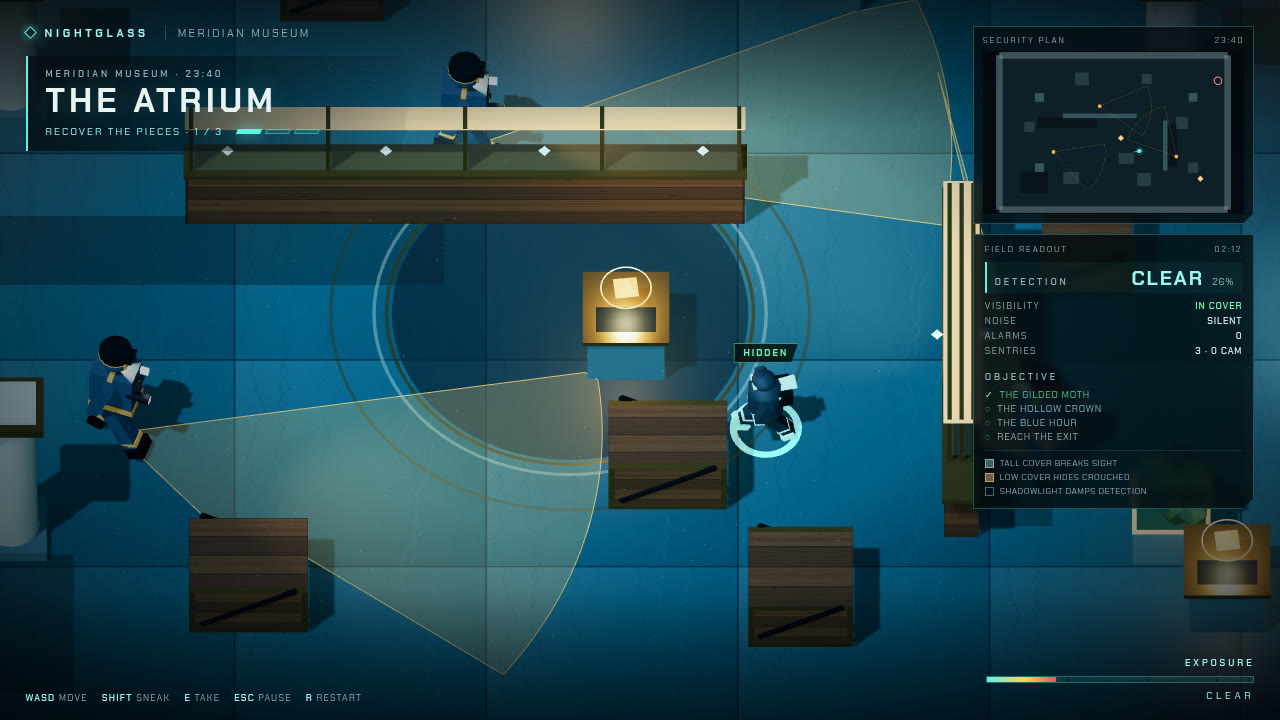
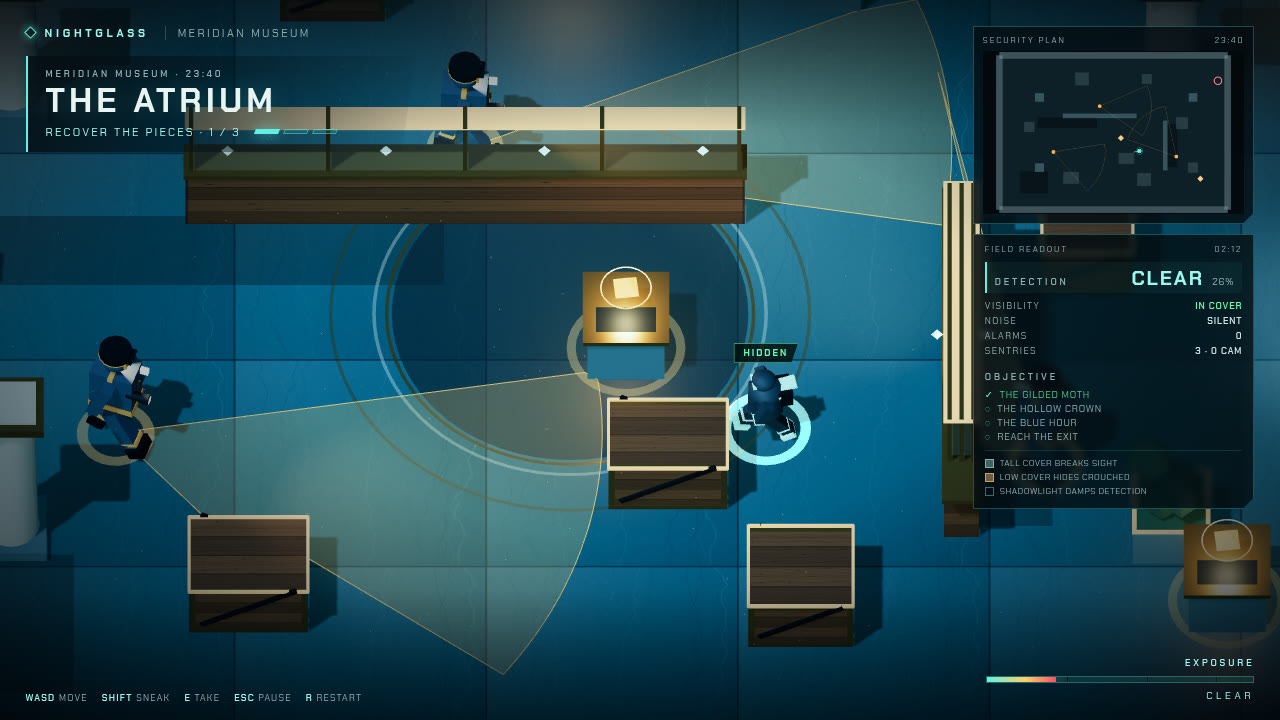
Ground rings, cover rims and safer lamp pools for readability

diff --git a/game/src/models.js b/game/src/models.js
@@ -81,6 +81,11 @@ function crate(def, materials) {
     slat.rotation.z = 0.55 * side;
     group.add(slat);
   }
+  const rim = 0.045;
+  group.add(box(def.w + 0.02, rim, rim, materials.edgeWarm, 0, def.h + 0.02, def.d / 2));
+  group.add(box(def.w + 0.02, rim, rim, materials.edgeWarm, 0, def.h + 0.02, -def.d / 2));
+  group.add(box(rim, rim, def.d + 0.02, materials.edgeWarm, def.w / 2, def.h + 0.02, 0));
+  group.add(box(rim, rim, def.d + 0.02, materials.edgeWarm, -def.w / 2, def.h + 0.02, 0));
   return group;
 }
 
@@ -167,6 +172,7 @@ function caseModel(def, materials) {
   const plinthHeight = def.h * 0.58;
   group.add(box(def.w, plinthHeight, def.d, materials.marble, 0, plinthHeight / 2, 0));
   group.add(box(def.w + 0.05, 0.06, def.d + 0.05, materials.brass, 0, plinthHeight, 0));
+  group.add(box(def.w + 0.08, 0.025, def.d + 0.08, materials.edgeWarm, 0, plinthHeight + 0.045, 0));
   const glass = box(def.w * 0.82, def.h - plinthHeight, def.d * 0.82, materials.glass, 0, plinthHeight + (def.h - plinthHeight) / 2, 0);
   glass.castShadow = false;
   group.add(glass);
@@ -196,10 +202,18 @@ export function makeRelic(def, materials) {
   group.add(box(1.24, 0.08, 1.24, materials.brass, 0, 0.99, 0));
   const inner = box(0.86, 0.02, 0.86, materials.darkMetal, 0, 1.02, 0);
   group.add(inner);
+  const plinthRing = new THREE.Mesh(
+    new THREE.RingGeometry(0.72, 0.85, 32),
+    new THREE.MeshBasicMaterial({ color: main ? '#5ff2e3' : '#ffb24d', transparent: true, opacity: 0.4, depthWrite: false, side: THREE.DoubleSide }),
+  );
+  plinthRing.rotation.x = -Math.PI / 2;
+  plinthRing.position.y = 0.018;
+  group.add(plinthRing);
   const gemMaterial = main ? materials.cyan.clone() : materials.amber.clone();
-  gemMaterial.emissiveIntensity = main ? 2.1 : 1.8;
-  const gem = new THREE.Mesh(new THREE.OctahedronGeometry(main ? 0.34 : 0.24, 0), gemMaterial);
-  gem.position.y = main ? 1.62 : 1.52;
+  gemMaterial.emissiveIntensity = main ? 1.6 : 1.8;
+  const gem = new THREE.Mesh(new THREE.OctahedronGeometry(main ? 0.36 : 0.24, 0), gemMaterial);
+  gem.scale.y = main ? 1.5 : 1.05;
+  gem.position.y = main ? 1.66 : 1.52;
   gem.castShadow = true;
   const halo = new THREE.Mesh(
     new THREE.TorusGeometry(main ? 0.48 : 0.36, 0.012, 8, 48),
@@ -207,7 +221,7 @@ export function makeRelic(def, materials) {
   );
   halo.position.y = gem.position.y;
   halo.rotation.x = Math.PI / 2;
-  const light = new THREE.PointLight(main ? '#8fffe0' : '#ffcf8a', main ? 12 : 4, main ? 8 : 4, 2);
+  const light = new THREE.PointLight(main ? '#8fffe0' : '#ffcf8a', main ? 9 : 4, main ? 8 : 4, 2);
   light.position.y = gem.position.y;
   const haloGroup = new THREE.Group();
   haloGroup.add(gem, halo, light);
@@ -221,7 +235,7 @@ export function makeRelic(def, materials) {
     group.add(shaft);
     const floorRing = new THREE.Mesh(new THREE.RingGeometry(0.78, 0.86, 40), materials.cyan.clone());
     floorRing.material.transparent = true;
-    floorRing.material.opacity = 0.2;
+    floorRing.material.opacity = 0.12;
     floorRing.material.depthWrite = false;
     floorRing.rotation.x = -Math.PI / 2;
     floorRing.position.y = 1.03;
@@ -375,7 +389,14 @@ export function makeGuardModel(materials) {
   group.add(flashlight);
   const badge = box(0.06, 0.14, 0.02, materials.brass, 0.3, 1.26, -0.02);
   group.add(badge);
-  return { group, legLeft, legRight, armLeft, armRight, flashlight, head };
+  const ring = new THREE.Mesh(
+    new THREE.RingGeometry(0.36, 0.5, 28),
+    new THREE.MeshBasicMaterial({ color: '#ffb24d', transparent: true, opacity: 0.5, depthWrite: false, side: THREE.DoubleSide }),
+  );
+  ring.rotation.x = -Math.PI / 2;
+  ring.position.y = 0.02;
+  group.add(ring);
+  return { group, legLeft, legRight, armLeft, armRight, flashlight, head, ring };
 }
 
 export function makePlayerModel(materials) {
@@ -418,8 +439,8 @@ export function makePlayerModel(materials) {
     group.add(arm);
   }
   const marker = new THREE.Mesh(
-    new THREE.RingGeometry(0.38, 0.48, 32),
-    new THREE.MeshBasicMaterial({ color: '#5ff2e3', transparent: true, opacity: 0.5, blending: THREE.AdditiveBlending, depthWrite: false, side: THREE.DoubleSide }),
+    new THREE.RingGeometry(0.46, 0.6, 32),
+    new THREE.MeshBasicMaterial({ color: '#5ff2e3', transparent: true, opacity: 0.6, blending: THREE.AdditiveBlending, depthWrite: false, side: THREE.DoubleSide }),
   );
   marker.rotation.x = -Math.PI / 2;
   marker.position.y = 0.025;
@@ -449,5 +470,12 @@ export function makeCameraModel(materials) {
   const led = new THREE.Mesh(new THREE.SphereGeometry(0.035, 8, 6), new THREE.MeshBasicMaterial({ color: '#ff4d5e' }));
   led.position.set(0.18, 0.38, 0);
   group.add(led);
+  const baseRing = new THREE.Mesh(
+    new THREE.RingGeometry(0.32, 0.44, 24),
+    new THREE.MeshBasicMaterial({ color: '#ff4d5e', transparent: true, opacity: 0.42, depthWrite: false, side: THREE.DoubleSide }),
+  );
+  baseRing.rotation.x = -Math.PI / 2;
+  baseRing.position.y = -2.28;
+  group.add(baseRing);
   return { group, housing, eye };
 }

diff --git a/game/src/guard.js b/game/src/guard.js
@@ -58,7 +58,7 @@ function writeCone(cone, points, blockers, reach) {
 function makeQuerySprite() {
   const material = new THREE.SpriteMaterial({ map: queryTexture, transparent: true, depthWrite: false });
   const sprite = new THREE.Sprite(material);
-  sprite.scale.set(0.55, 0.55, 0.55);
+  sprite.scale.set(0.72, 0.72, 0.72);
   sprite.visible = false;
   return sprite;
 }
@@ -66,7 +66,7 @@ function makeQuerySprite() {
 function makeAlarmSprite() {
   const material = new THREE.SpriteMaterial({ map: alarmTexture, transparent: true, depthWrite: false });
   const sprite = new THREE.Sprite(material);
-  sprite.scale.set(0.6, 0.6, 0.6);
+  sprite.scale.set(0.8, 0.8, 0.8);
   sprite.visible = false;
   return sprite;
 }
@@ -103,10 +103,10 @@ export class Guard {
     this.cone = makeCone(this.range, '#ffb24d', 0.14);
     scene.add(this.cone.mesh, this.cone.edge);
     this.query = makeQuerySprite();
-    this.query.position.set(0, 2.42, 0);
+    this.query.position.set(0, 2.55, 0);
     this.group.add(this.query);
     this.alarm = makeAlarmSprite();
-    this.alarm.position.set(0, 2.42, 0);
+    this.alarm.position.set(0, 2.55, 0);
     this.group.add(this.alarm);
     this.flashlight = new THREE.SpotLight('#fff0c9', 26, 9, this.fov * 0.62, 0.55, 1.6);
     this.flashlight.position.set(0, 1.55, 0);
@@ -206,6 +206,10 @@ export class Guard {
     this.model.armRight.rotation.z = swing * 0.7;
     this.flashlight.intensity = this.state === 'alarm' ? 38 : 26;
     this.flashlight.color.set(this.state === 'alarm' ? '#ff9a8a' : '#fff0c9');
+    const ringColor = this.state === 'alarm' || this.state === 'search' ? '#ff4d5e' : this.awareness > GUARD.suspectAt ? '#ff8a3d' : '#ffb24d';
+    this.model.ring.material.color.set(ringColor);
+    this.model.ring.material.opacity = this.state === 'alarm' ? 0.65 : this.awareness > GUARD.suspectAt ? 0.55 : 0.35;
+    this.model.ring.scale.setScalar(this.state === 'alarm' ? 1 + Math.sin(this.stepPhase * 2) * 0.12 : 1);
 
     this.query.visible = this.awareness > GUARD.suspectAt && this.state !== 'alarm';
     this.alarm.visible = this.state === 'alarm' || this.state === 'search';

diff --git a/game/src/level-data.js b/game/src/level-data.js
@@ -182,6 +182,8 @@ export const LEVELS = [
       { x: 1.0, z: 9.4, color: '#8f7dff', power: 9 },
       { x: 25.0, z: 9.4, color: '#8f7dff', power: 9 },
       { x: 13.0, z: 8.0, color: '#8fffe0', power: 13 },
+      { x: 6.8, z: 12.2, color: '#8f7dff', power: 9 },
+      { x: 19.2, z: 3.8, color: '#cbb7ff', power: 9 },
     ],
     shadows: [
       { x: 6.4, z: 8.6, w: 3.0, d: 2.6 },

diff --git a/game/styles.css b/game/styles.css
@@ -166,7 +166,7 @@ html, body {
   display: flex;
   align-items: center;
   gap: 14px;
-  font-size: 10px;
+  font-size: 11px;
   letter-spacing: 0.2em;
   color: var(--cyan-soft);
   text-transform: uppercase;
